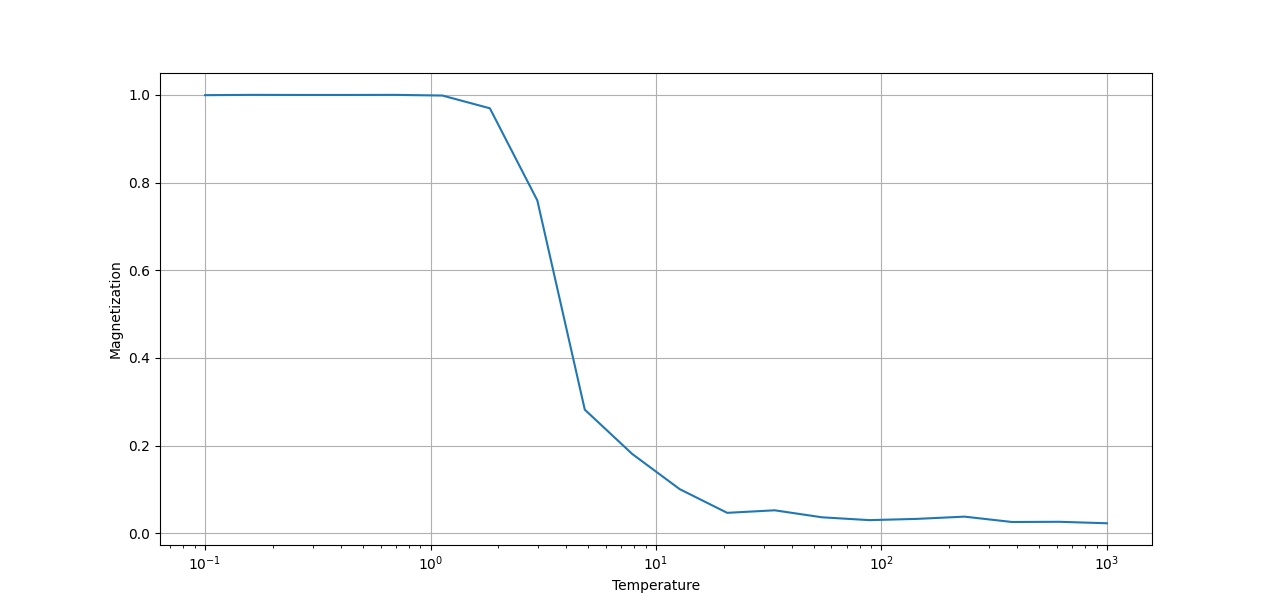
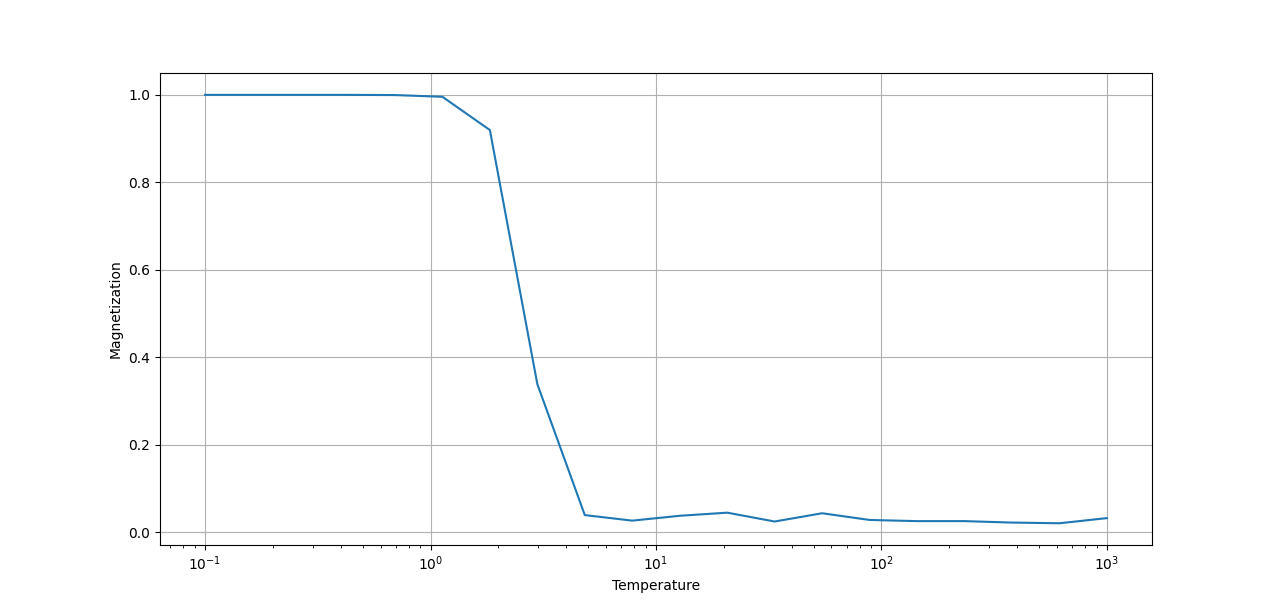
Fixed Finding Neigbors

diff --git a/MagnetSimulation.py b/MagnetSimulation.py
@@ -24,7 +24,8 @@ TEMPERATURES = 20
 
 
 def createLattice(size):
-  return (2 * np.random.randint(0,2, size=(size, size))) - 1
+  # return (2 * np.random.randint(0,2, size=(size, size))) - 1
+  return np.ones((size, size))
 
 def chooseRandomAtom(size):
   return (np.random.randint(0, size), np.random.randint(0, size))
@@ -33,7 +34,7 @@ def calculateEnergyChange(lattice, position):
   energyChange = 0
   curOrientation = lattice[position[0], position[1]]
   for direction in [(1,0),(0,1),(-1,0),(0,-1)]:
-    adjacentAtom = np.add(curOrientation, direction)
+    adjacentAtom = np.add(position, direction)
     if adjacentAtom[0] < 0 or adjacentAtom[1] < 0 or \
         adjacentAtom[0] >= SIZE or adjacentAtom[1] >= SIZE:
       continue
